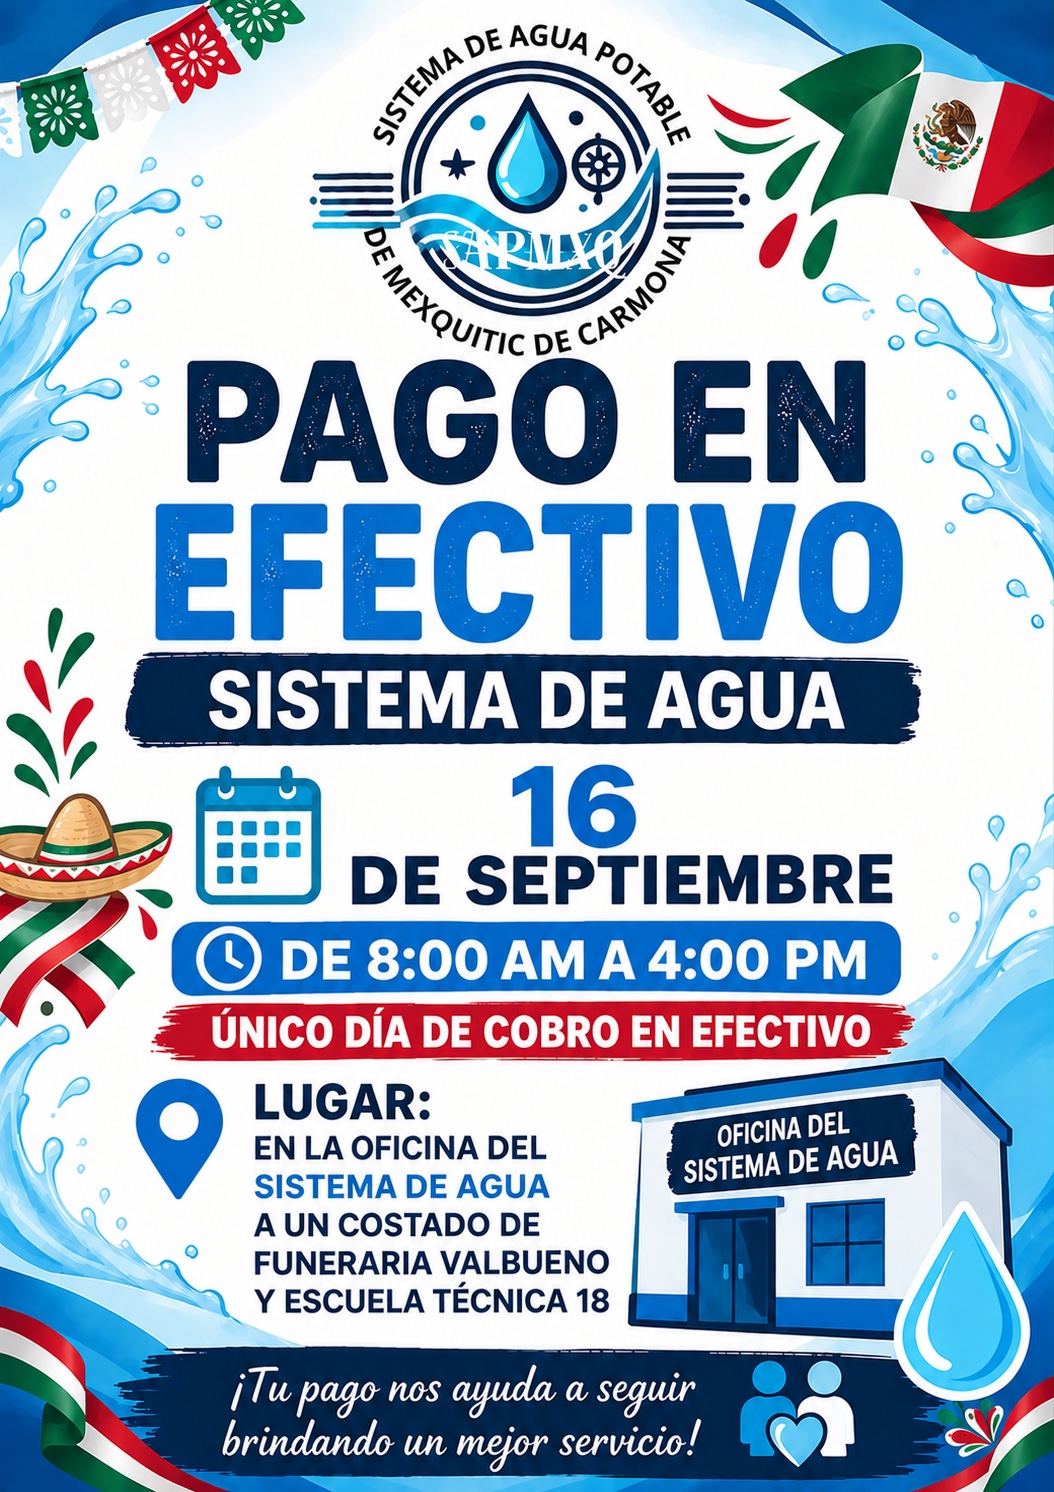
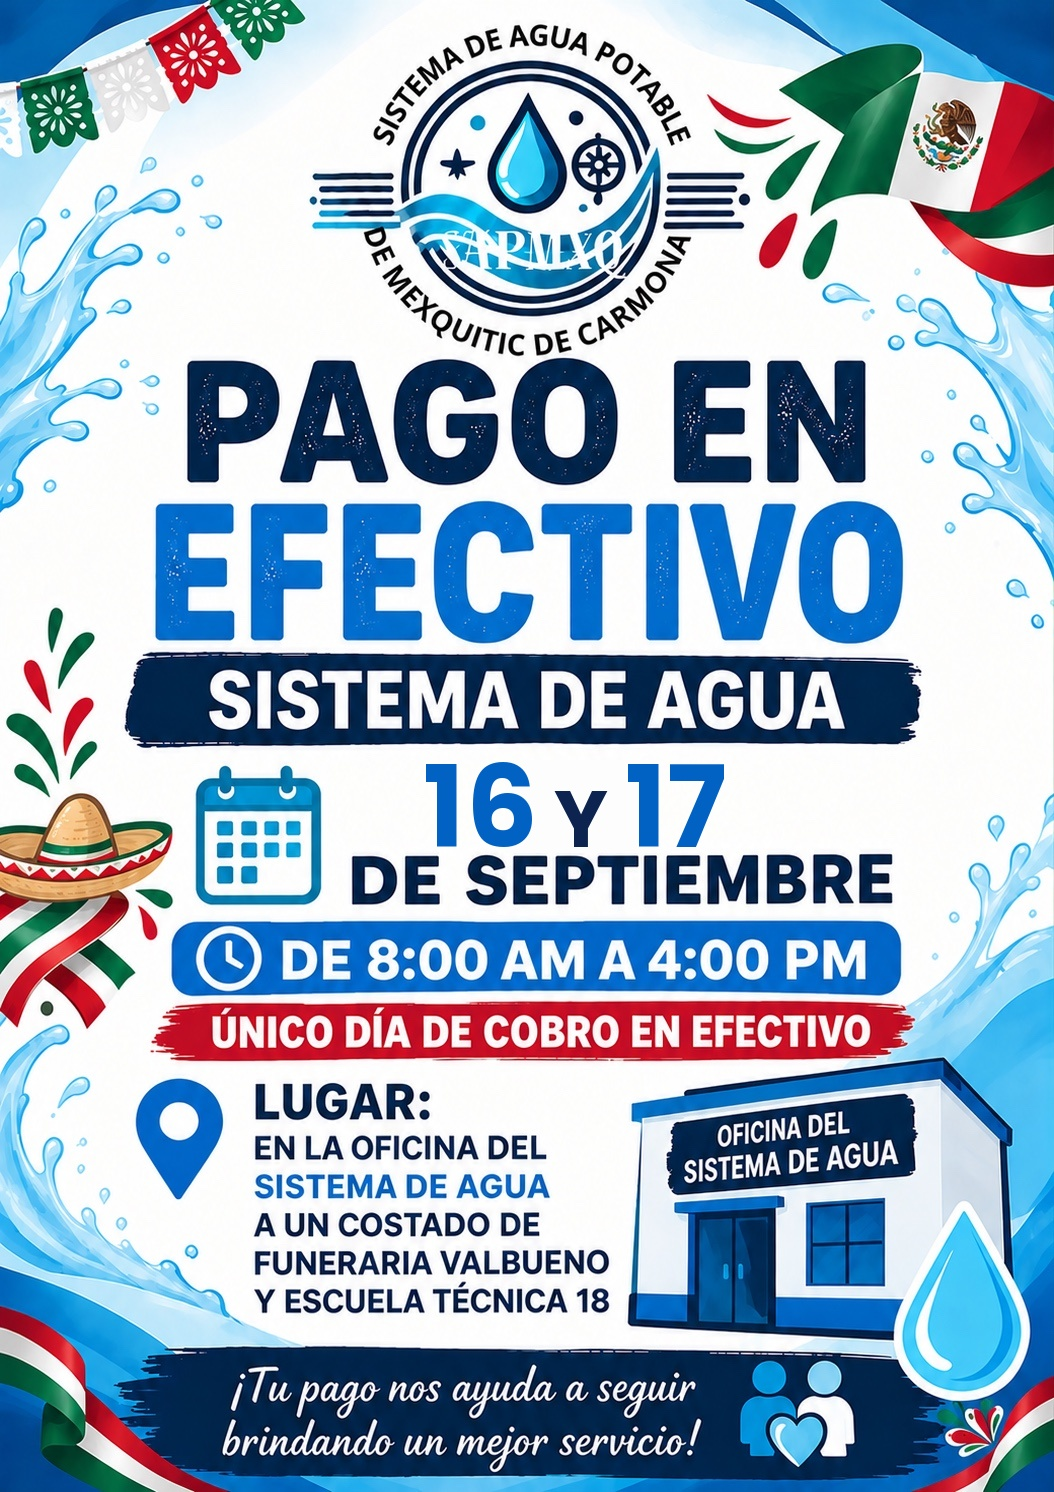
Cambio

Changed region(s): [[0.3947, 0.4933, 0.6983, 0.5858]]

diff --git a/app/Clases/WhatsAppBot.php b/app/Clases/WhatsAppBot.php
@@ -9,8 +9,9 @@ class WhatsAppBot
     private WhatsApp $whatsApp;
     private string $rootDir;
     private string $flyerPath;
-    // TEMPORAL: aviso de un solo dia (cobro en efectivo, 16 de septiembre 2026).
-    // Quitar esta imagen y el envio en enviarFlyerPagos() despues de esa fecha.
+    // TEMPORAL: aviso de cobro en efectivo, 16 y 17 de septiembre 2026 (la
+    // imagen dice "17" pero el texto que la acompana aclara que tambien
+    // aplica el 16). Quitar esta imagen y el envio en enviarFlyerPagos() el 18.
     private string $flyerEfectivoPath;
 
     public function __construct(PDO $db, Recibos $recibos, WhatsApp $whatsApp)
@@ -155,7 +156,7 @@ class WhatsAppBot
         // TEMPORAL: ver nota junto a la propiedad flyerEfectivoPath.
         if (is_file($this->flyerEfectivoPath)) {
             try {
-                $this->whatsApp->enviarImagen($telefono, $this->flyerEfectivoPath, 'Unico dia de cobro en efectivo: 16 de septiembre, de 8:00 am a 4:00 pm.');
+                $this->whatsApp->enviarImagen($telefono, $this->flyerEfectivoPath, 'Cobro en efectivo los dias 16 y 17 de septiembre, de 8:00 am a 4:00 pm, en la oficina del Sistema de Agua.');
             } catch (Throwable $exception) {
                 // No interrumpe el flujo si falla el envio del volante.
             }
